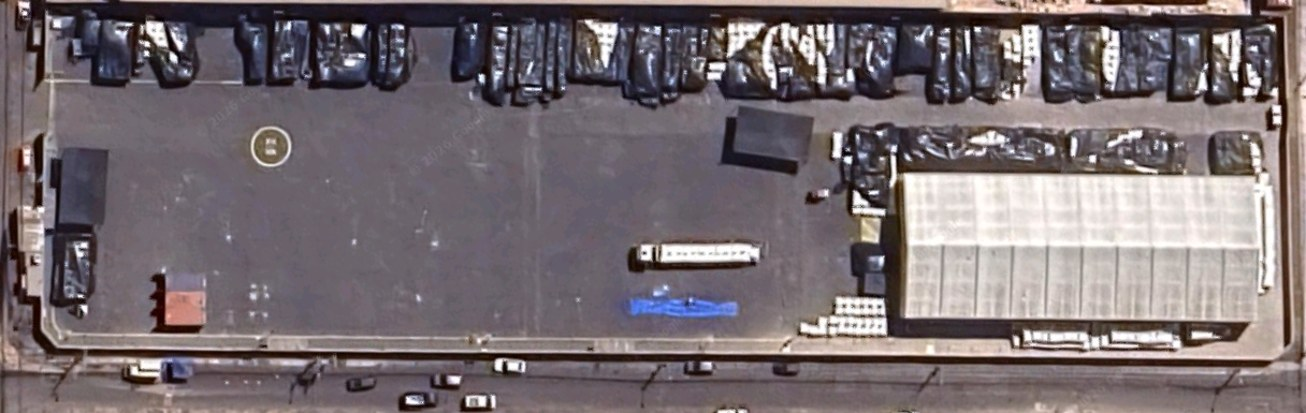
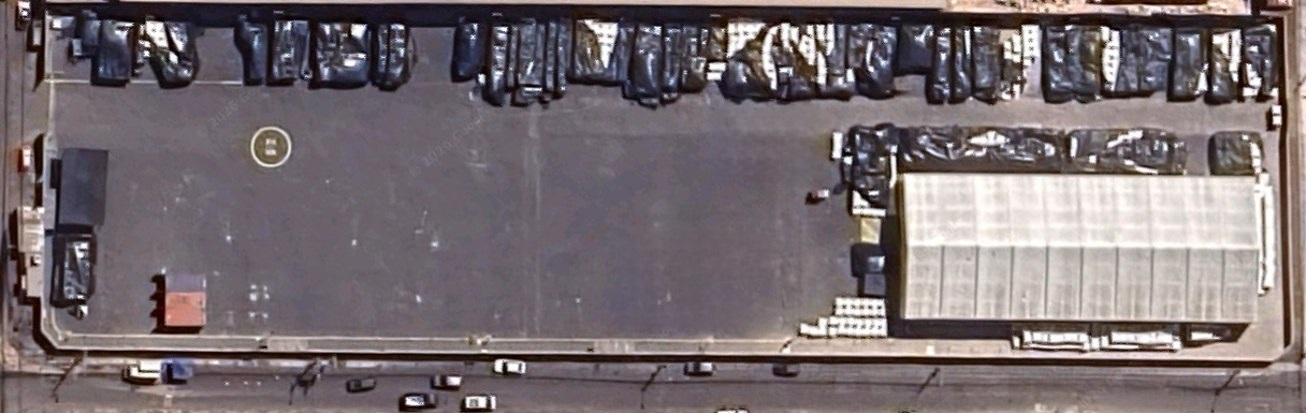
Add files via upload

diff --git a/ocupacion.js b/ocupacion.js
@@ -26,10 +26,10 @@ function calcularOcupacionBodegas() {
 }
 
 function ocupPct(b, c) { return c > 0 ? Math.round((b / c) * 100) : 0; }
-const OCUP_AMARILLO = '#facc15';
+const OCUP_AMARILLO = '#eabc04';
 function ocupColor(p) { return p > 90 ? '#e53e3e' : (p > 70 ? OCUP_AMARILLO : '#38a169'); }
 function ocupBorde(p) { return p > 90 ? '#c53030' : (p > 70 ? '#d8aa00' : '#2f855a'); }
-function ocupTexto(col) { return col === OCUP_AMARILLO ? '#eabc04' : col; }
+function ocupTexto(col) { return col === OCUP_AMARILLO ? '#f0c105' : col; }
 function ocupEmoji(p) { return p > 90 ? '🔴' : (p > 70 ? '🟡' : '🟢'); }
 function colorearInsigniasOcupacion() {
     const estilos = {

diff --git a/index.html b/index.html
@@ -31,7 +31,7 @@
             <button class="btn-nav" id="btnAdo" onclick="cambiarBodega('adoquines')">ADOQUINES</button>
             <button class="btn-nav btn-nav-mapa" onclick="abrirModalMapa()">🗺</button>
             <div class="menu-opciones">
-                <button class="btn-nav btn-nav-small" onclick="toggleMenu()">⚙</button>
+                <button class="btn-nav btn-nav-small btn-nav-menu" onclick="toggleMenu()">⚙</button>
 
 <div id="menuDropdown" class="menu-dropdown">
 <!-- 🔑 OPCIÓN PARA INICIAR SESIÓN COMO ADMINISTRADOR -->

diff --git a/styles.css b/styles.css
@@ -1041,7 +1041,8 @@ button[onclick*="seccion-reporte-fifo"]:active {
         box-sizing: border-box;
     }
 }
-.btn-nav.btn-nav-mapa {
+.btn-nav.btn-nav-mapa,
+.btn-nav.btn-nav-menu {
     flex: 0 0 auto !important;
     padding: 5px 9px !important;
     font-size: 15px !important;
